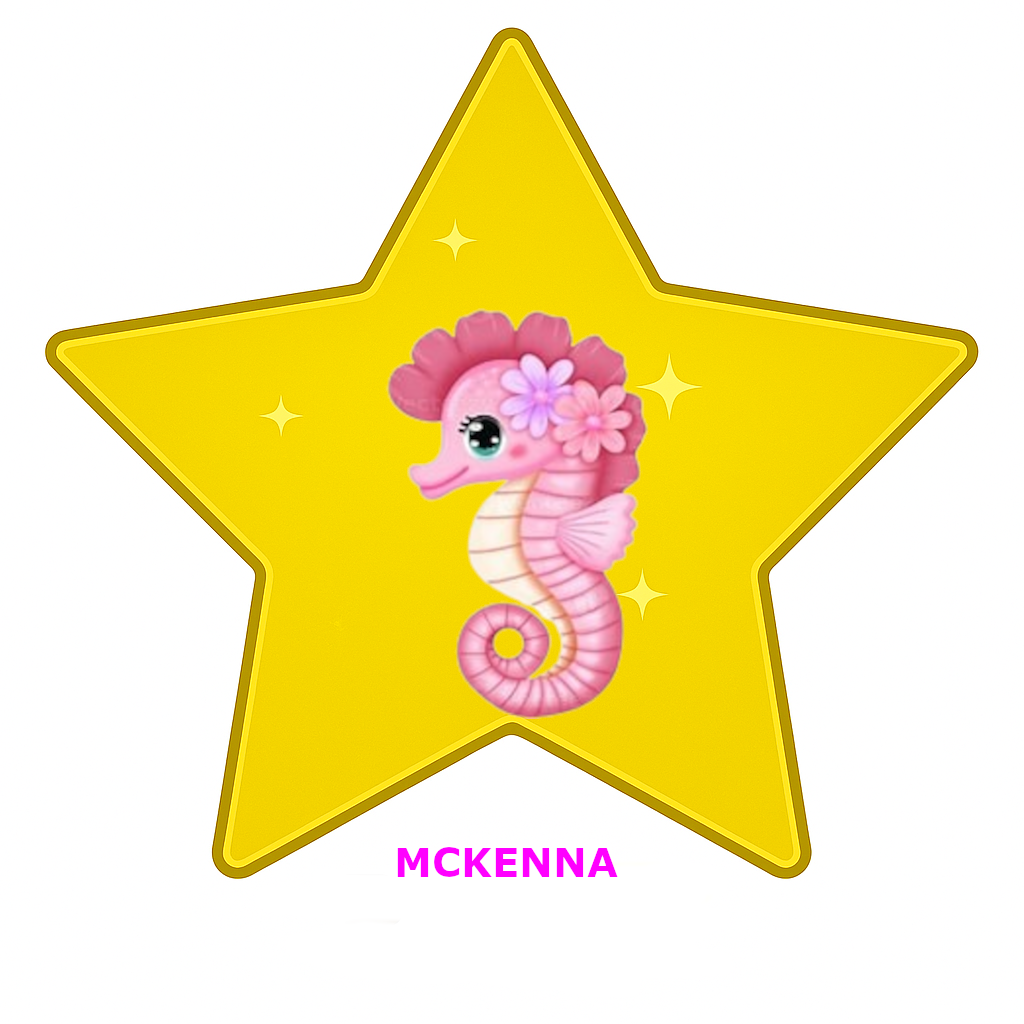
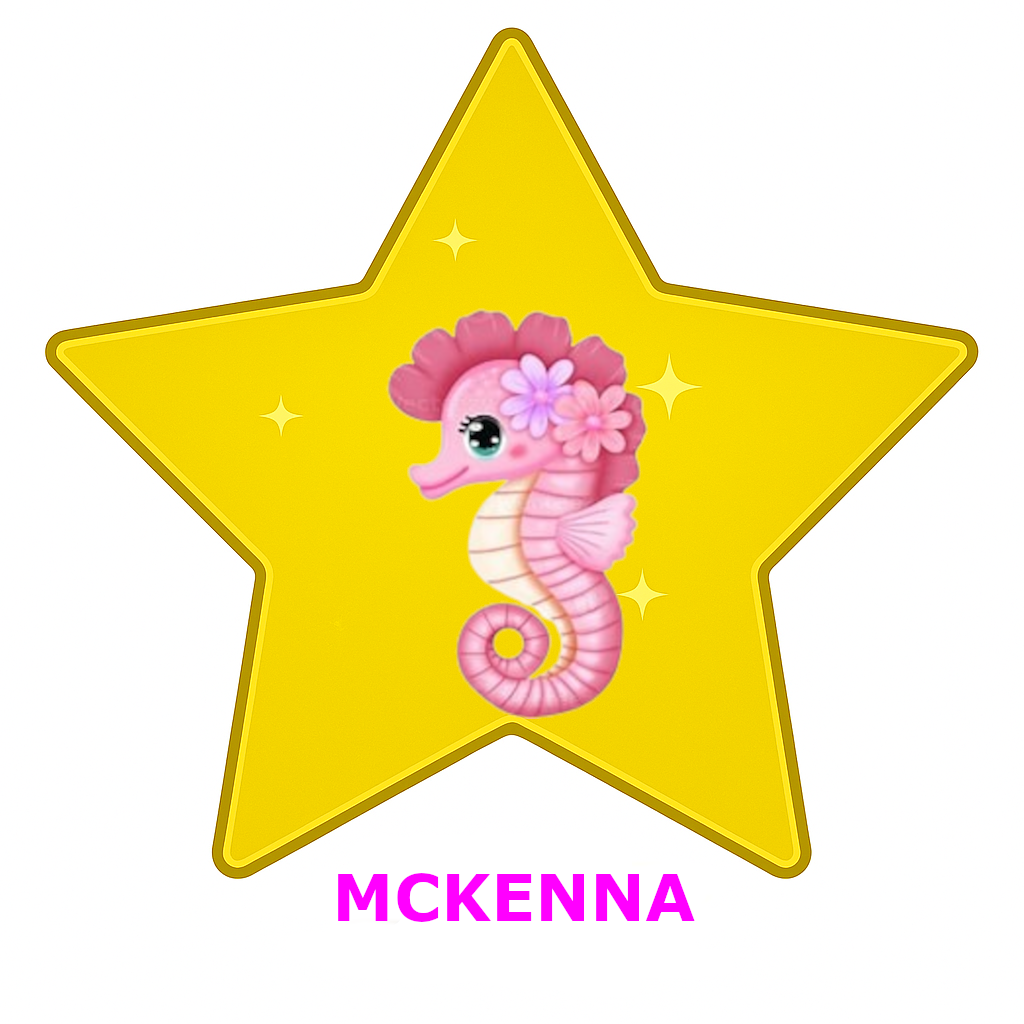
Enlarged text on cards

Changed region(s): [[0.3125, 0.8125, 0.6875, 0.9062]]

diff --git a/earn.js b/earn.js
@@ -380,11 +380,16 @@ cards.forEach((filename) => {
   card.className = 'card';
   card.setAttribute('aria-label', normalize(filename));
   card.innerHTML = `
-    <div class="card-inner">
-      <div class="card-front" style="background: url('Gold_Star_Cards/card-back.png') center/cover no-repeat;"></div>
-      <div class="card-back" style="background: url('Gold_Star_Cards/${filename}') center/cover no-repeat;"></div>
+  <div class="card-inner">
+    <div class="card-front">
+      <img src="Gold_Star_Cards/card-back.png" alt="Card Back">
     </div>
-  `;
+    <div class="card-back">
+      <img src="${imagePath}" alt="${getCardName(imagePath)}">
+      <div class="card-label">${getCardName(imagePath)}</div>
+    </div>
+  </div>
+`;
   board.appendChild(card);
 
   card.addEventListener('click', () => {
@@ -454,21 +459,16 @@ function narrateReward(type, name) {
     speakText(message, type);
 }
 
-function getFilenameFromCardName(name) {
-  return name.toLowerCase().replace(/\s+/g, '_') + '.png';
-}
-
 function awardStarCard(cardName) {
-    if (!cardName || typeof cardName !== "string") return;
-
-    const filename = getFilenameFromCardName(cardName); // e.g. "jack_gill.png"
     const earnedStarCards = JSON.parse(localStorage.getItem('earnedStarCards')) || [];
 
-    if (!earnedStarCards.includes(filename)) {
-        earnedStarCards.push(filename);
+    if (!cardName || typeof cardName !== "string") return;
+
+    if (!earnedStarCards.includes(cardName)) {
+        earnedStarCards.push(cardName);
         localStorage.setItem('earnedStarCards', JSON.stringify(earnedStarCards));
 
-        narrateReward("star", cardName); // still use display name for voice
+        narrateReward("star", cardName);
 
         confetti({
             particleCount: 100,

diff --git a/style.css b/style.css
@@ -89,12 +89,23 @@
     }
 }
 
-.card-inner {
+
+
+.card-back img {
     width: 100%;
-    height: 100%;
-    position: relative;
-    transform-style: preserve-3d;
-    transition: transform 0.6s;
+    height: auto;
+    display: block;
+    border-bottom: 1px solid #ccc;
+}
+
+.card-label {
+    text-align: center;
+    font-size: 18px;
+    font-weight: bold;
+    color: #333;
+    padding: 4px;
+    background: #f9f9f9;
+    border-top: 1px solid #ddd;
 }
 
 .card-inner img {
@@ -143,7 +154,7 @@
     text-align: center;
     background-color: rgba(255, 255, 255, 0.9);
     font-size: 1.0rem;
-    font-weight: 700;
+    font-weight: 900;
     color: #4B0082;
     border-top: 1px solid rgba(0, 0, 0, 0.1);
     font-family: 'Segoe UI', sans-serif;
